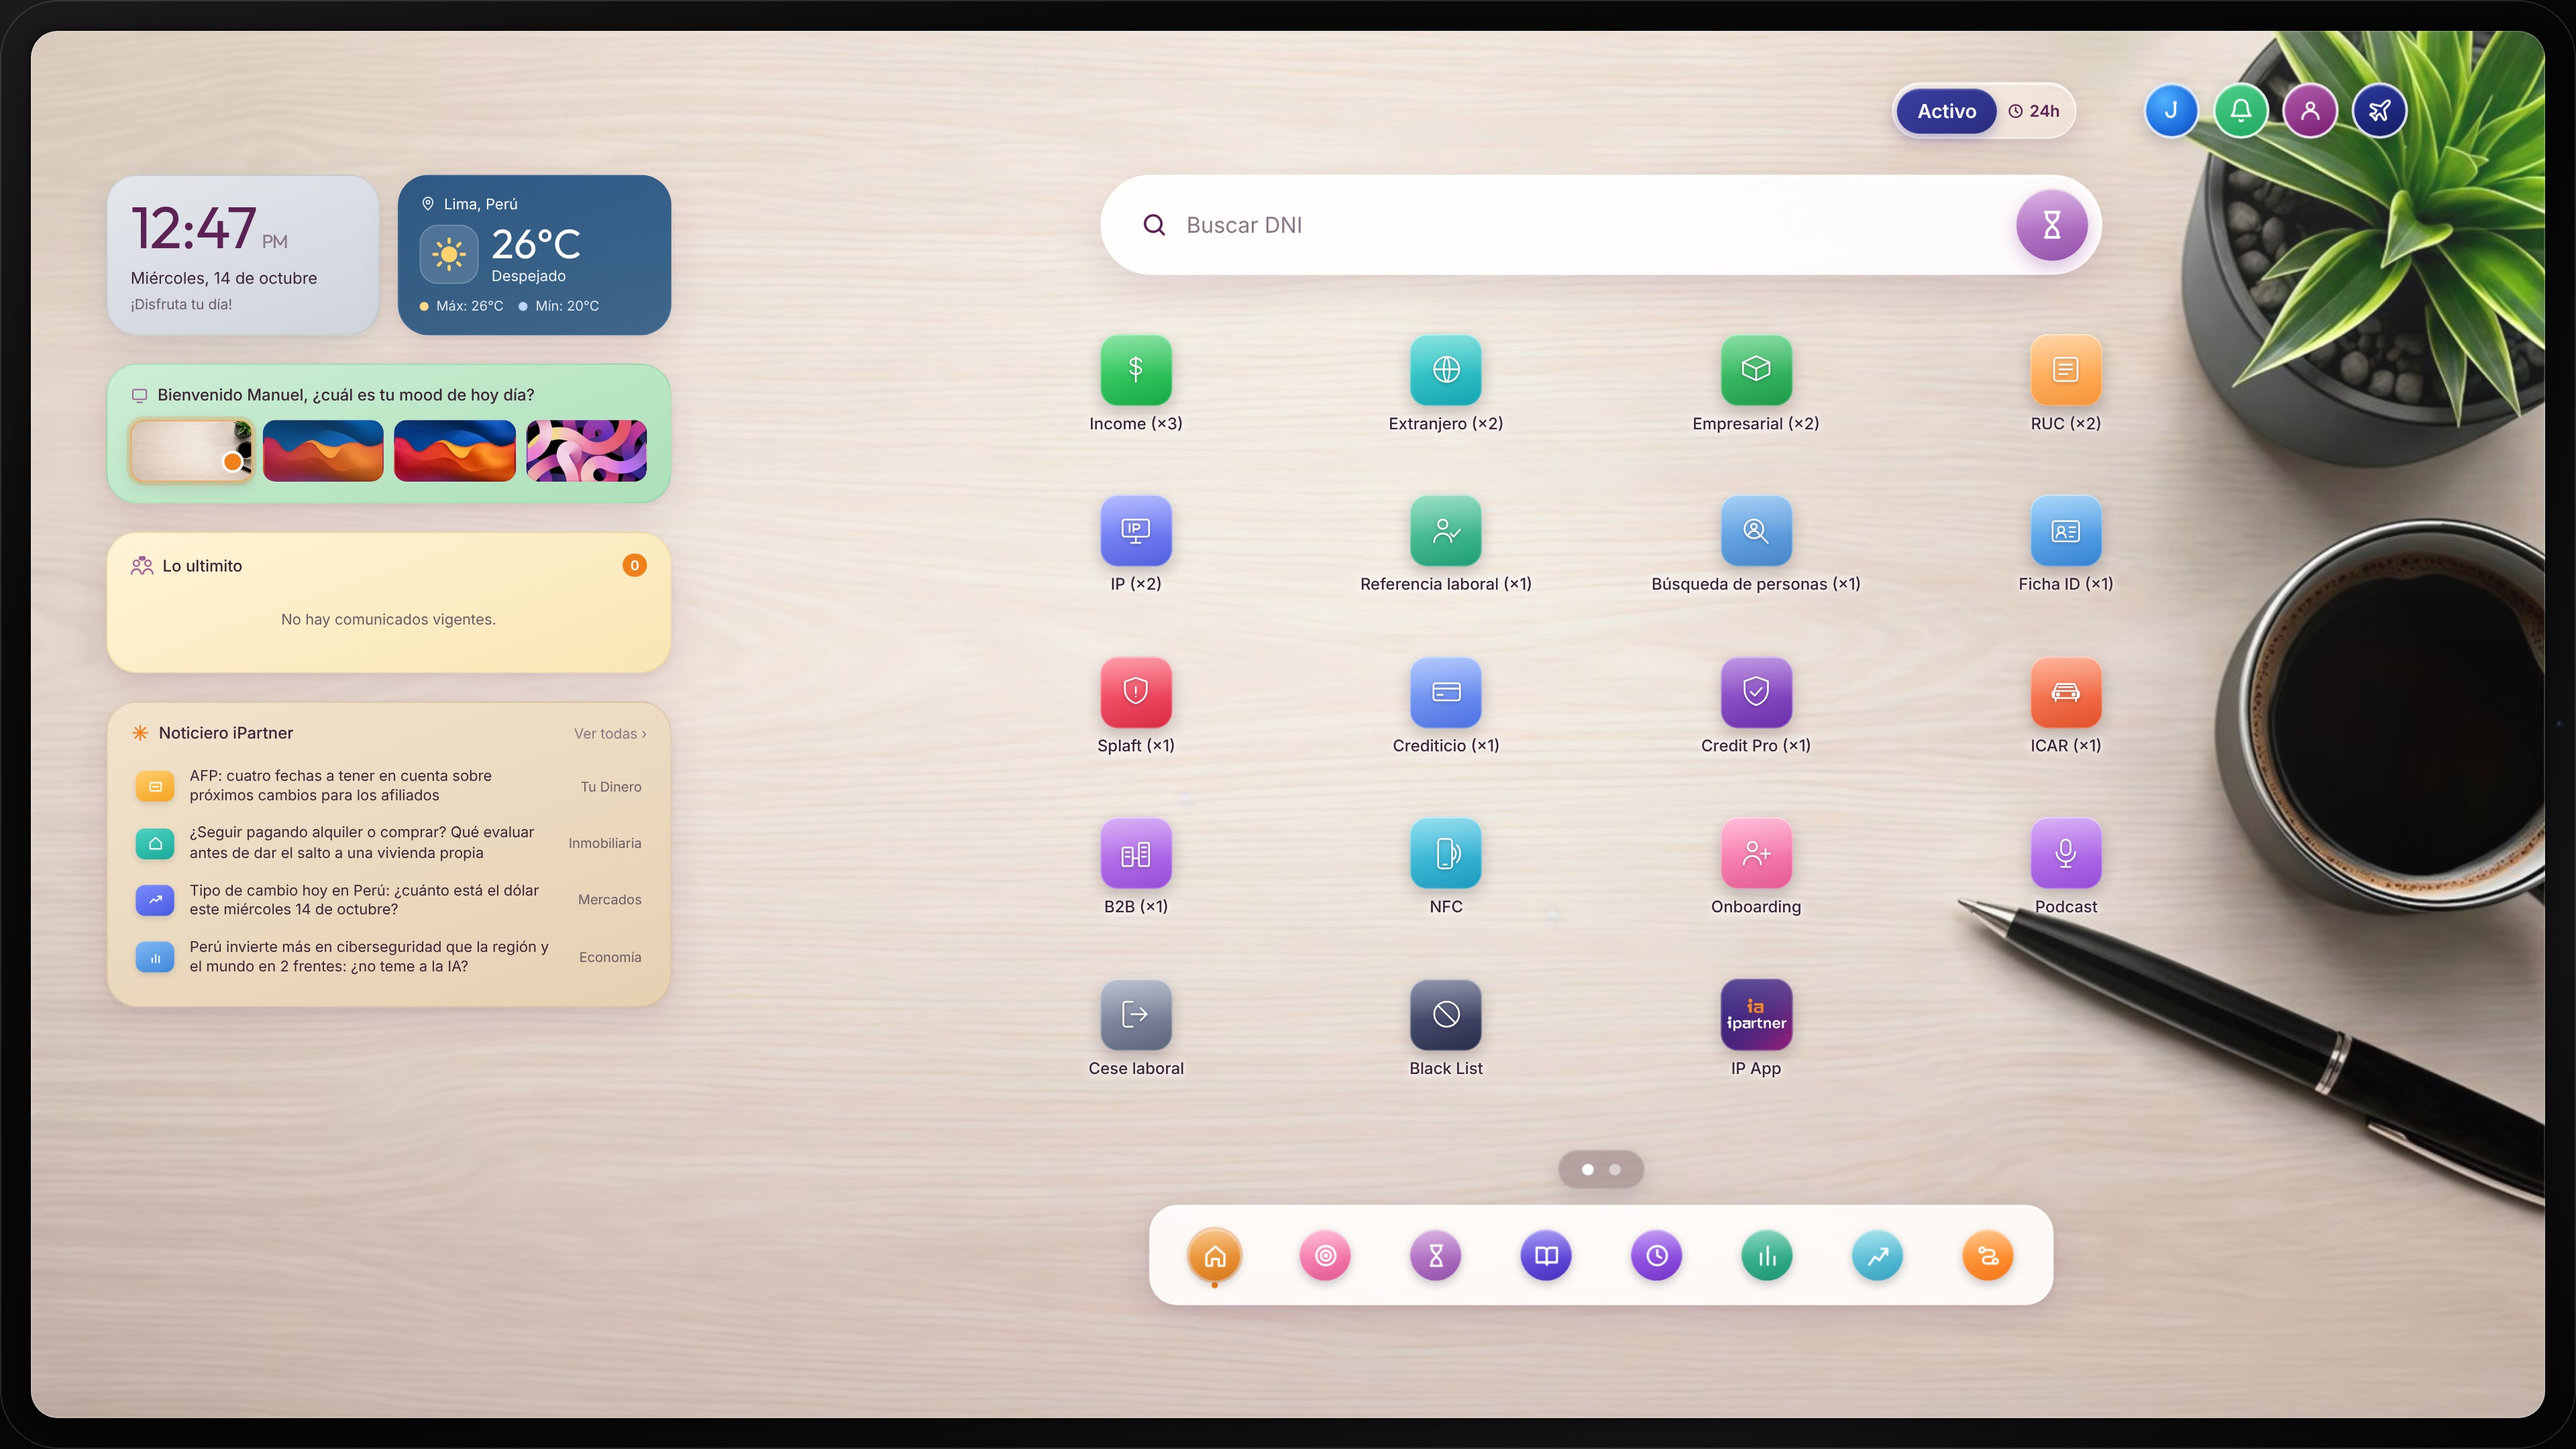
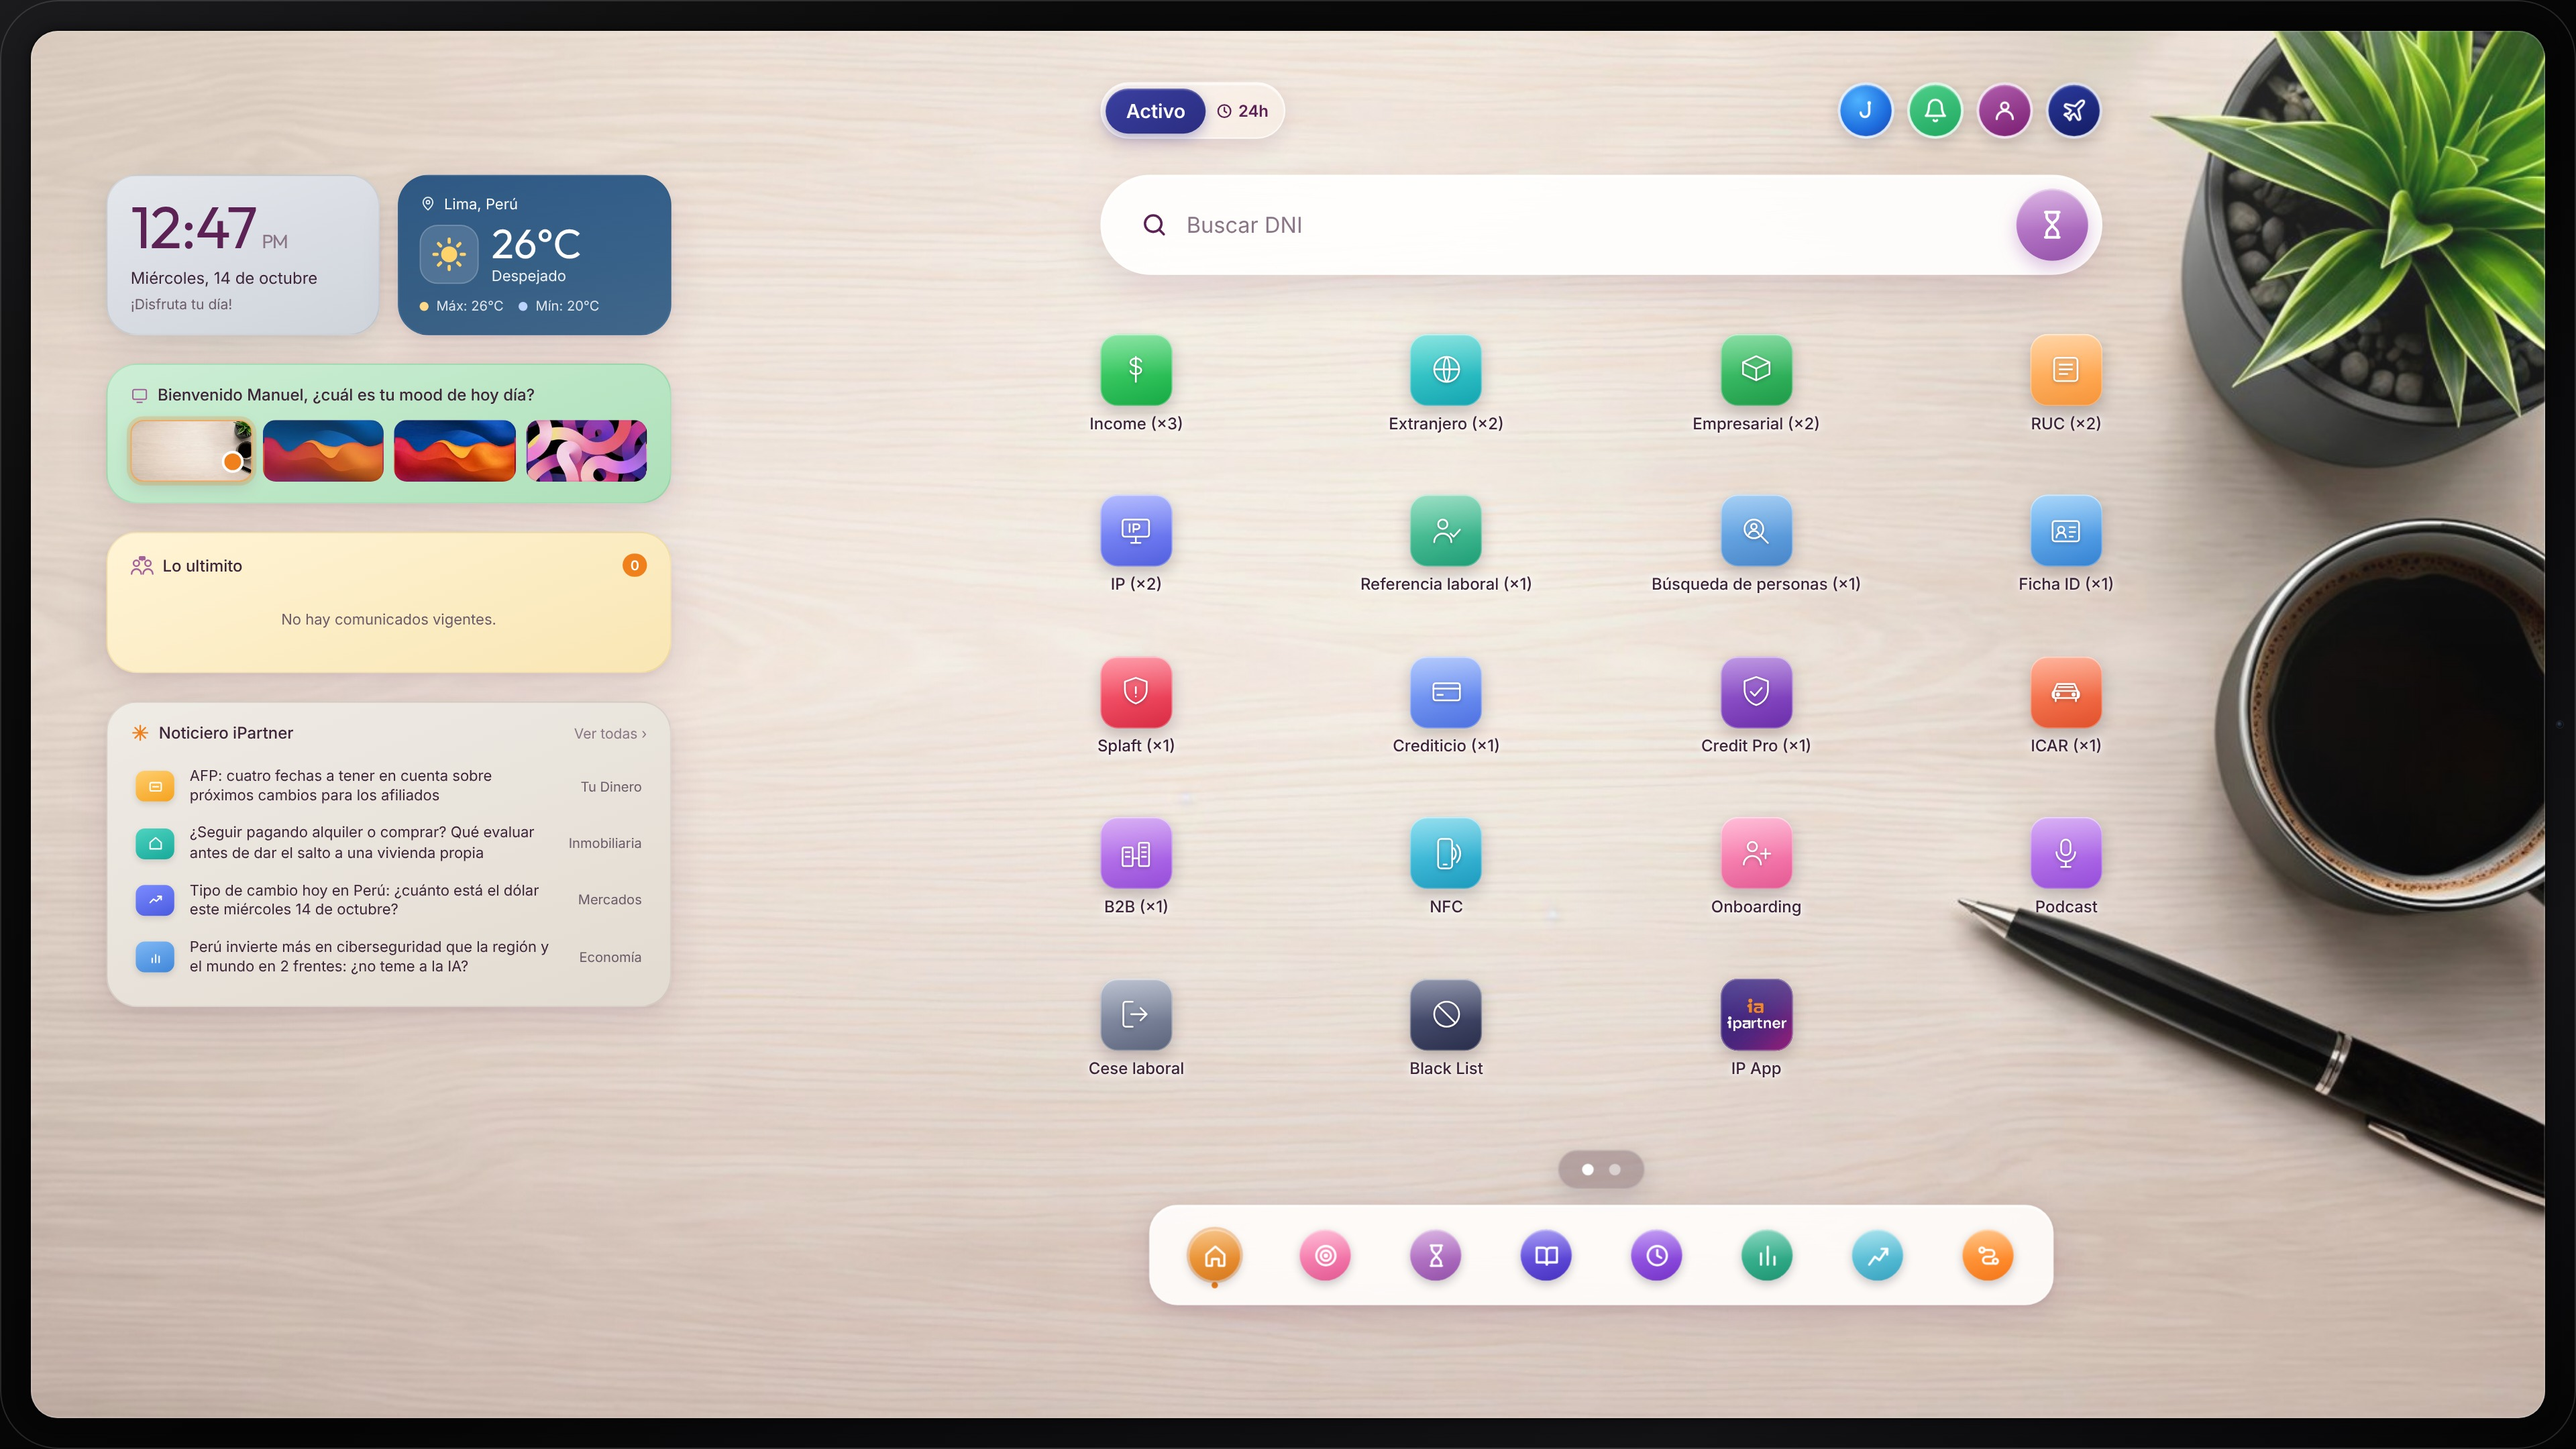
Home: Noticiero en beige neutro y encabezado alineado a la barra
El Noticiero pasa a un beige arena para separarse de la crema de Lo
ultimito. «Activo · 24h» empieza en el borde izquierdo de la barra de
búsqueda y los cuatro accesos terminan en su borde derecho. Capturas
actualizadas.

Claude-Session: https://claude.ai/code/session_01KT8NTYu2Ge9wagQ7cc8Njn

Changed region(s): [[0.0312, 0.4653, 0.2812, 0.7134], [0.6875, 0.031, 0.9375, 0.0931], [0.4062, 0.062, 0.4688, 0.1241]]

diff --git a/home/ipartner-home.html b/home/ipartner-home.html
@@ -1093,6 +1093,10 @@ header{position:relative;z-index:20}
 .card.novedades{background:linear-gradient(160deg,#fff4d6,#f9e6b4)!important;border-color:rgba(200,160,60,.2)!important}
 .card.noticiero{background:linear-gradient(160deg,#f2e3cd,#e5d0b2)!important;border-color:rgba(150,110,60,.18)!important}
 .card.reloj .saludo,.card.noticiero .noticia time,.card.novedades .nov-vacio{color:#6b5a68!important}
+/* Noticiero: beige neutro (arena) para separarse de la crema de Lo ultimito */
+.card.noticiero{background:linear-gradient(160deg,#efebe5,#e2dbd1)!important;border-color:rgba(110,95,75,.14)!important}
+/* Encabezado alineado a la barra: «Activo · 24h» al borde izquierdo, íconos al borde derecho */
+header .sesion{grid-column:2;justify-self:center!important;width:780px;justify-content:space-between}
 
 </style>
 </head>
